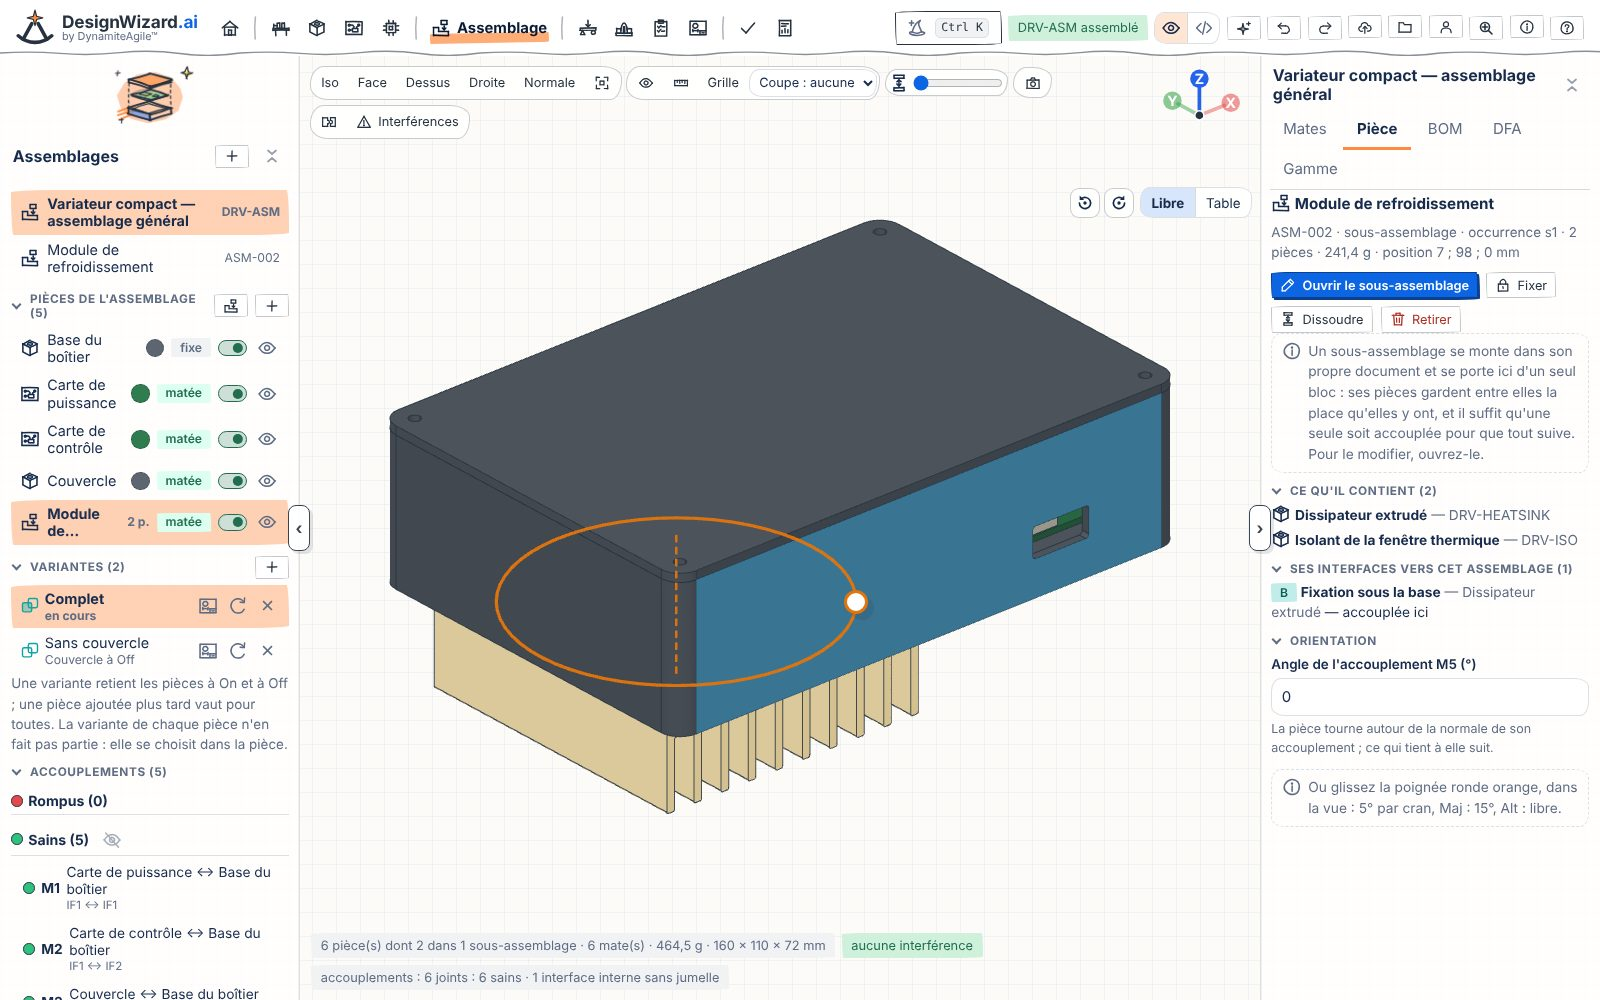
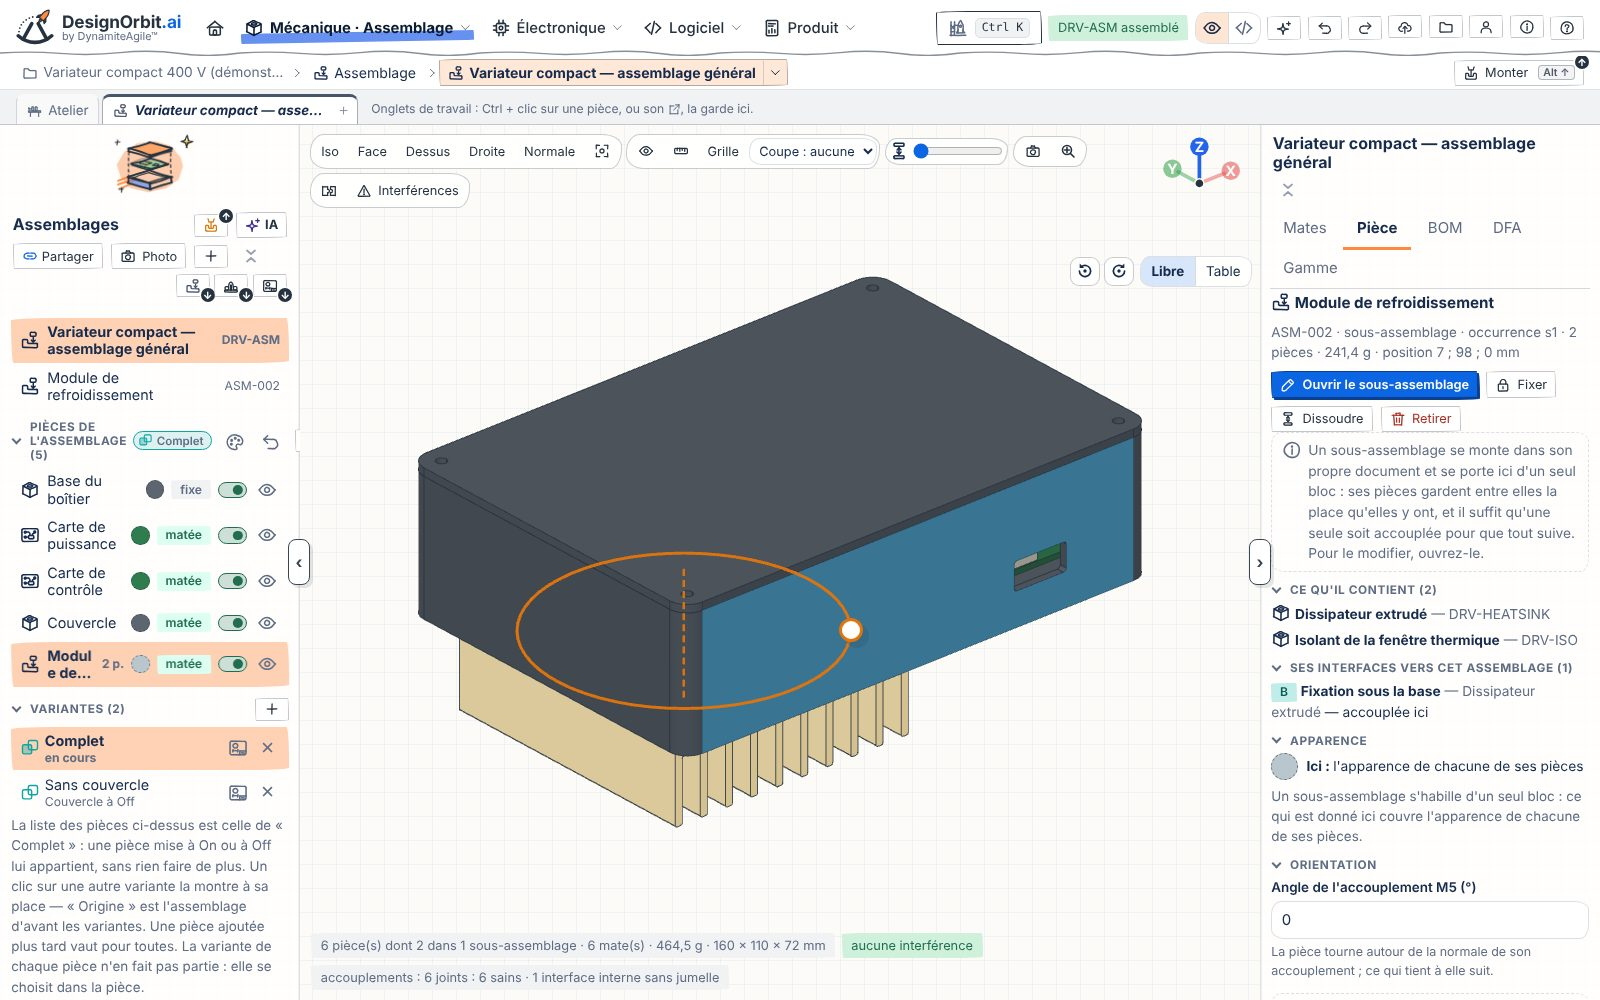
Captures de la présentation refaites au nom DesignOrbit.ai, sans marques « Nouveau » (tour_shots : la revue part de la version en cours) ; dossier Drive renommé DesignOrbit.ai
Claude-Session: https://claude.ai/code/session_01RxbPqxCaK1suxA6d4rH81Q

diff --git a/CLAUDE.md b/CLAUDE.md
@@ -3,8 +3,9 @@
 Le produit s'appelle **DesignOrbit.ai** (JP, 22 novembre 2026, par menu ; anciennement DesignWizard.ai, puis DynamiteOrbit le
 même jour). Le dépôt GitHub s'appelle `jpdesbiens11/DynamiteOrbit.ai` et la démo est à
 https://jpdesbiens11.github.io/DynamiteOrbit.ai/ — des adresses, pas le nom du produit. Gardent l'ancien nom, pour ne rien
-casser : le dossier « DesignWizard.ai » du Google Drive de JP (communications), le format `.dwiz`, les réglages gardés du
-navigateur (`dw.*`), le fichier `designwizard.py`, le film et la bande-annonce tant que leur voix n'est pas refaite.
+casser : le format `.dwiz`, les réglages gardés du
+navigateur (`dw.*`), le fichier `designwizard.py`, le film et la bande-annonce tant que leur voix n'est pas refaite. Le dossier du
+Google Drive de JP s'appelle **« DesignOrbit.ai »** (JP, par menu, 22 novembre : renommé ; l'application le retrouve par sa propriété).
 
 Consignes permanentes de JP (propriétaire du dépôt). Elles s'appliquent à toute session. (Le nom DynamiteOrbit, posé en v0.174.0 parce que DesignWizard.ai était pris, et son symbole « l'éclair mis en orbite » de v0.177.0 sont remplacés en v0.178.0 par DesignOrbit.ai et la fusée du compas — JP, par menu, après qu'on lui eut montré le nom déjà publié.)
 
@@ -19,13 +20,13 @@ Consignes permanentes de JP (propriétaire du dépôt). Elles s'appliquent à to
   évidente : choisir, le dire, continuer.
 - Dire ce qui est vérifié et ce qui ne l'est pas ; ne jamais annoncer comme fait ce qui n'a pas tourné.
 - **Communications et marketing** (demande de JP) : la présentation, les communications et le matériel marketing sont
-  déposés dans le Google Drive de JP, au fur et à mesure qu'ils sont produits, dans « DesignWizard.ai » →
+  déposés dans le Google Drive de JP, au fur et à mesure qu'ils sont produits, dans « DesignOrbit.ai » →
   « Communications et marketing » (rangé là à sa demande, le 19 novembre 2026, pour tout trouver au même endroit).
   **Rien en vrac** : chaque fichier va dans le sous-dossier de son sujet — `Présentations` (la plus récente en tête),
   `Communications` (`Essai pilote`, `Anglais des dessins`), `Marketing` (`Kit de lancement`, `Vidéo`, `Studio photo`,
   `Labo`, `Simulation`), `Storyline` ; un nouveau sujet = un nouveau sous-dossier ; ce qu'une version remplace descend dans
   « Versions précédentes », rien n'est supprimé. Fichiers nommés `Sujet_AAAA-MM-JJ` ; le `LISEZ-MOI.txt` du dossier dit
-  le rangement et tient le journal. Les autres dossiers de « DesignWizard.ai » (projets, pièces, révisions) et son
+  le rangement et tient le journal. Les autres dossiers de « DesignOrbit.ai » (projets, pièces, révisions) et son
   LISEZ-MOI sont l'arbre de travail de l'application : ne rien y déposer ni y déplacer. Le connecteur Drive refuse un
   fichier de plus de 3 Mo environ : le dire à JP, ne pas contourner sans son accord.
 
@@ -191,7 +192,7 @@ sorcier (icône `wizard`) devient une **tour de lancement et sa fusée** ; **tou
 garde son crayonné** ; le logo devient **L3 — la fusée quitte le compas sur sa trajectoire**, une seule figure (`LOGO`,
 `logoShapes` de `web/js/core/brand.js`, les mêmes nombres dans `tools/sketch_logo.py`, tenus égaux par un essai) ; le produit
 s'appelle **DesignOrbit.ai**. Reste : refaire la voix et les sous-titres du film et de la bande-annonce (ils disent
-« DesignWizard.ai »), reprendre les captures de la visite (`web/img/tour`), renommer l'application sur l'écran de
+« DesignWizard.ai »), ~~reprendre les captures de la visite (`web/img/tour`)~~ — fait, avec le matériel du dossier « Communications et marketing » refait au nom DesignOrbit.ai, renommer l'application sur l'écran de
 consentement de Google (Google Cloud Console : à faire par JP) ; peut-être renommer le dépôt « DesignOrbit.ai ».
 
 **Un jour / peut-être** (les « Reste », à reprioriser à la demande)
